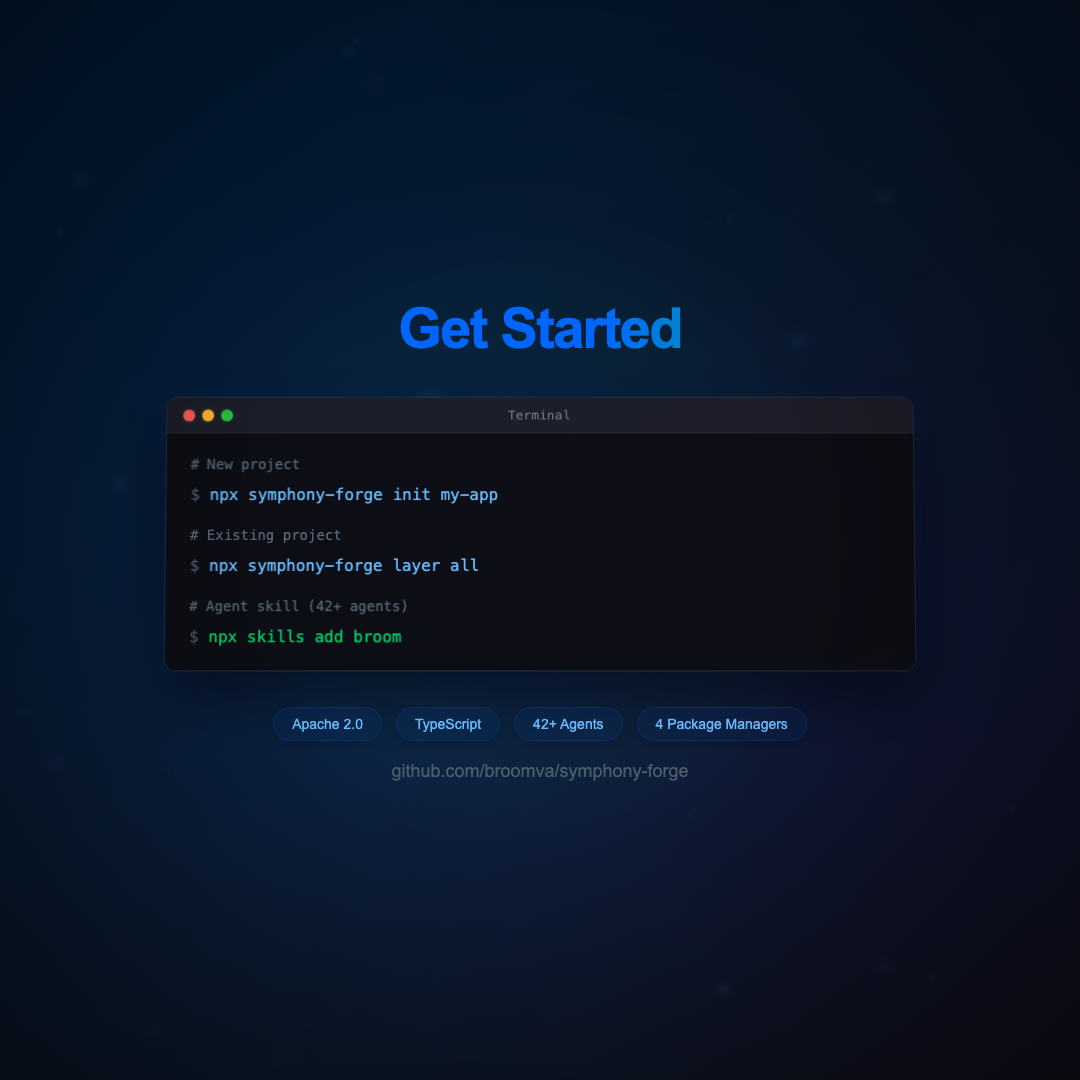
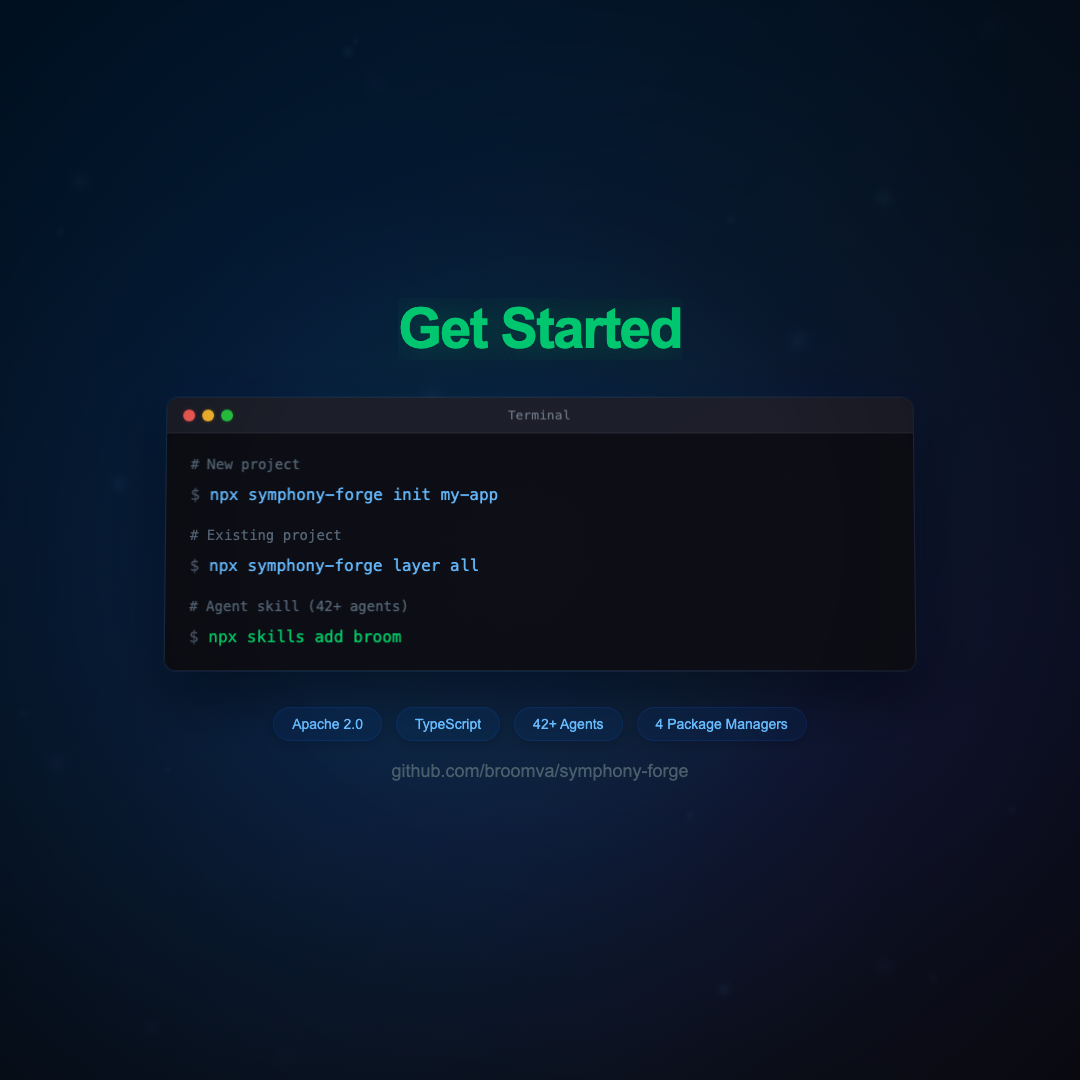
fix: gradient text rendering — replace background-clip with color interpolation
The WebkitBackgroundClip: "text" approach rendered as a solid blue box
in Remotion's headless Chromium. Replaced with direct RGB color
interpolation between from/to colors for a reliable animated color
shift effect.

Changed region(s): [[0.3667, 0.275, 0.6417, 0.3361]]

diff --git a/projects/symphony-forge-showcase/src/components/gradient-text.tsx b/projects/symphony-forge-showcase/src/components/gradient-text.tsx
@@ -27,8 +27,22 @@ export const GradientText: React.FC<{
     extrapolateRight: "clamp",
   });
 
-  // Animated gradient shift
-  const gradientPos = interpolate(frame, [0, 120], [0, 100]);
+  // Animated color interpolation instead of background-clip
+  const colorProgress = interpolate(frame, [0, 90], [0, 1], {
+    extrapolateRight: "clamp",
+  });
+
+  // Interpolate between from and to colors for a subtle shift
+  const r1 = Number.parseInt(from.slice(1, 3), 16);
+  const g1 = Number.parseInt(from.slice(3, 5), 16);
+  const b1 = Number.parseInt(from.slice(5, 7), 16);
+  const r2 = Number.parseInt(to.slice(1, 3), 16);
+  const g2 = Number.parseInt(to.slice(3, 5), 16);
+  const b2 = Number.parseInt(to.slice(5, 7), 16);
+
+  const r = Math.round(r1 + (r2 - r1) * colorProgress);
+  const g = Math.round(g1 + (g2 - g1) * colorProgress);
+  const b = Math.round(b1 + (b2 - b1) * colorProgress);
 
   return (
     <div
@@ -41,12 +55,8 @@ export const GradientText: React.FC<{
         fontFamily: "'Poppins', sans-serif",
         letterSpacing: "-0.03em",
         lineHeight: 1.1,
-        background: `linear-gradient(90deg, ${from} ${gradientPos}%, ${to} ${gradientPos + 50}%, ${from} ${gradientPos + 100}%)`,
-        backgroundSize: "200% 100%",
-        backgroundPosition: `${gradientPos}% 0`,
-        WebkitBackgroundClip: "text",
-        WebkitTextFillColor: "transparent",
-        backgroundClip: "text",
+        color: `rgb(${r}, ${g}, ${b})`,
+        textShadow: `0 0 40px rgba(${r}, ${g}, ${b}, 0.3)`,
       }}
     >
       {text}
